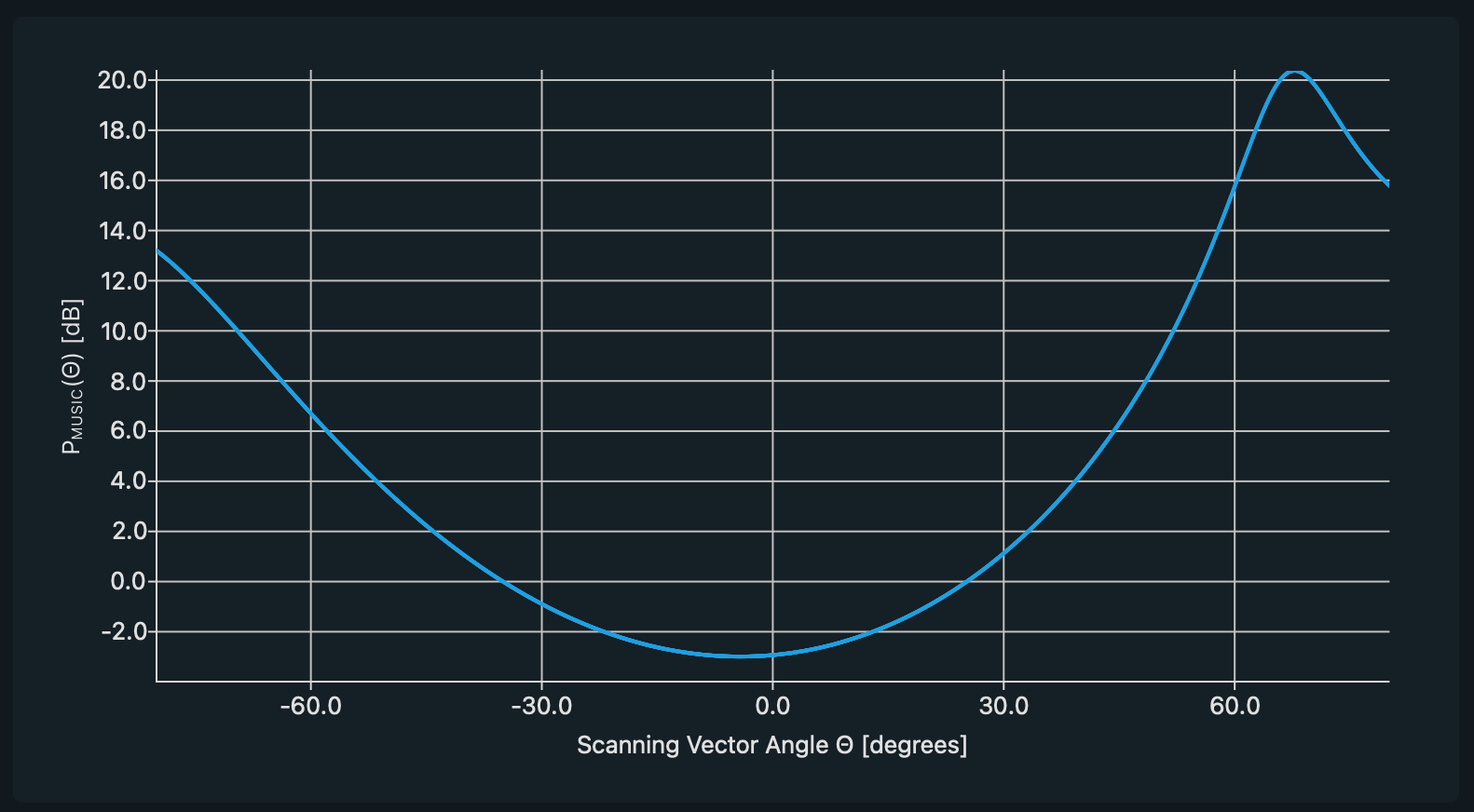
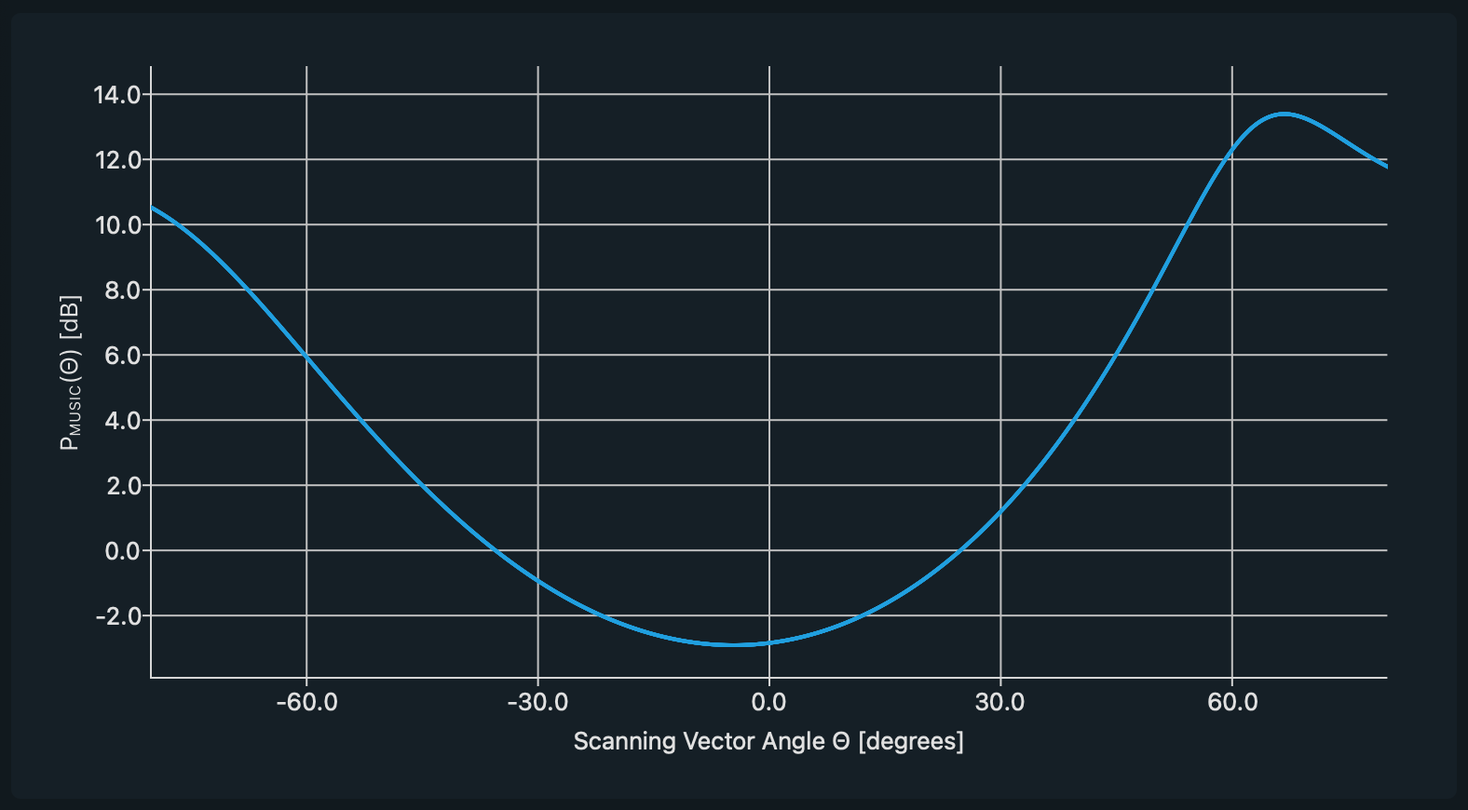
Added Measurement

Changed region(s): [[0.0311, 0.0931, 0.9638, 0.931]]

diff --git a/matlab/music_125MHz_M256_1m_60deg/cfr.m b/matlab/music_125MHz_M256_1m_60deg/cfr.m
@@ -1,116 +1,118 @@
 % Auto-generated MATLAB script
 clear;
-CH0_316 = [ ...
-0 + 1i*0, 2.42589 + 1i*2.37659, 2.42634 + 1i*2.37967, 2.42655 + 1i*2.38252, 2.42652 + 1i*2.38513,  ...
-2.42624 + 1i*2.38751, 2.42573 + 1i*2.38965, 2.42497 + 1i*2.39155, 2.42397 + 1i*2.39322, 2.42271 + 1i*2.39464,  ...
-2.42122 + 1i*2.39581, 2.41947 + 1i*2.39674, 2.41747 + 1i*2.39743, 2.41521 + 1i*2.39786, 2.41271 + 1i*2.39804,  ...
-2.40994 + 1i*2.39797, 2.40692 + 1i*2.39765, 2.40364 + 1i*2.39706, 2.4001 + 1i*2.39622, 2.39629 + 1i*2.39511,  ...
-2.39223 + 1i*2.39374, 2.38789 + 1i*2.39211, 2.38328 + 1i*2.3902, 2.37841 + 1i*2.38802, 2.37326 + 1i*2.38557,  ...
-2.36784 + 1i*2.38284, 2.36214 + 1i*2.37982, 2.35616 + 1i*2.37653, 2.3499 + 1i*2.37295, 2.34336 + 1i*2.36908,  ...
-2.33654 + 1i*2.36492, 2.32942 + 1i*2.36046, 2.32202 + 1i*2.3557, 0 + 1i*0, 0 + 1i*0,  ...
-0 + 1i*0, 0 + 1i*0, 0 + 1i*0, 0 + 1i*0, 0 + 1i*0,  ...
-0 + 1i*0, 0 + 1i*0, 0 + 1i*0, 0 + 1i*0, 0 + 1i*0,  ...
-0 + 1i*0, 0 + 1i*0, 0 + 1i*0, 0 + 1i*0, 0 + 1i*0,  ...
-0 + 1i*0, 0 + 1i*0, 0 + 1i*0, 2.09519 + 1i*2.18048, 2.08077 + 1i*2.16821,  ...
-2.06599 + 1i*2.15554, 2.05086 + 1i*2.14248, 2.03537 + 1i*2.12902, 2.01952 + 1i*2.11515, 2.00331 + 1i*2.10087,  ...
-1.98673 + 1i*2.08617, 1.96978 + 1i*2.07105, 1.95246 + 1i*2.0555, 1.93476 + 1i*2.03952, 1.91668 + 1i*2.0231,  ...
-1.89822 + 1i*2.00624, 1.87937 + 1i*1.98893, 1.86013 + 1i*1.97116, 1.8405 + 1i*1.95293, 1.82047 + 1i*1.93423,  ...
-1.80004 + 1i*1.91506, 1.77921 + 1i*1.89542, 1.75796 + 1i*1.87528, 1.73631 + 1i*1.85466, 1.71425 + 1i*1.83354,  ...
-1.69176 + 1i*1.81192, 1.66885 + 1i*1.78978, 1.64552 + 1i*1.76714, 1.62176 + 1i*1.74396, 1.59756 + 1i*1.72026,  ...
-1.57293 + 1i*1.69603, 1.54786 + 1i*1.67125, 1.52234 + 1i*1.64592, 1.49637 + 1i*1.62004, 1.46995 + 1i*1.5936,  ...
-1.44308 + 1i*1.56658, 1.41574 + 1i*1.53899, 1.38794 + 1i*1.51082, 1.35967 + 1i*1.48205, 1.33092 + 1i*1.45269,  ...
-1.3017 + 1i*1.42272, 1.272 + 1i*1.39215, 1.24181 + 1i*1.36095, 1.21113 + 1i*1.32912, 1.17996 + 1i*1.29667,  ...
-1.14829 + 1i*1.26357, 1.11611 + 1i*1.22982, 1.08342 + 1i*1.19541, 1.05023 + 1i*1.16034, 1.01651 + 1i*1.1246,  ...
-0.982275 + 1i*1.08818, 0.947511 + 1i*1.05107, 0.912216 + 1i*1.01326, 0 + 1i*0, 0 + 1i*0,  ...
-0 + 1i*0, 0 + 1i*0, 0 + 1i*0, 0 + 1i*0, 0 + 1i*0,  ...
-0 + 1i*0, 0 + 1i*0, 0 + 1i*0, 0 + 1i*0, 0 + 1i*0,  ...
-0 + 1i*0, 0 + 1i*0, 0 + 1i*0, 0 + 1i*0, 0 + 1i*0,  ...
-0 + 1i*0, 0 + 1i*0, 0 + 1i*0, 0 + 1i*0, 0 + 1i*0,  ...
-0 + 1i*0, 0 + 1i*0, 0 + 1i*0, 0 + 1i*0, 0 + 1i*0,  ...
-0 + 1i*0, 0 + 1i*0, 0 + 1i*0, 0 + 1i*0, 0 + 1i*0,  ...
-0 + 1i*0, 0 + 1i*0, 0 + 1i*0, 0 + 1i*0, 0 + 1i*0,  ...
-0 + 1i*0, 0 + 1i*0, 0 + 1i*0, 0 + 1i*0, 0 + 1i*0,  ...
-0 + 1i*0, 0 + 1i*0, 0 + 1i*0, 0 + 1i*0, 0 + 1i*0,  ...
-0 + 1i*0, 0 + 1i*0, 0 + 1i*0, 0 + 1i*0, 1.02916 + 1i*0.831082,  ...
-1.05968 + 1i*0.858819, 1.08971 + 1i*0.88629, 1.11925 + 1i*0.913494, 1.14831 + 1i*0.94043, 1.1769 + 1i*0.967098,  ...
-1.20502 + 1i*0.993497, 1.23269 + 1i*1.01963, 1.2599 + 1i*1.04549, 1.28667 + 1i*1.07108, 1.31301 + 1i*1.09641,  ...
-1.33892 + 1i*1.12146, 1.3644 + 1i*1.14625, 1.38947 + 1i*1.17076, 1.41413 + 1i*1.19501, 1.43838 + 1i*1.21899,  ...
-1.46224 + 1i*1.2427, 1.4857 + 1i*1.26614, 1.50878 + 1i*1.28932, 1.53148 + 1i*1.31223, 1.5538 + 1i*1.33488,  ...
-1.57576 + 1i*1.35726, 1.59735 + 1i*1.37938, 1.61858 + 1i*1.40123, 1.63946 + 1i*1.42282, 1.65999 + 1i*1.44415,  ...
-1.68018 + 1i*1.46522, 1.70002 + 1i*1.48603, 1.71954 + 1i*1.50658, 1.73872 + 1i*1.52687, 1.75758 + 1i*1.54691,  ...
-1.77611 + 1i*1.56669, 1.79433 + 1i*1.58621, 1.81223 + 1i*1.60548, 1.82982 + 1i*1.6245, 1.84711 + 1i*1.64326,  ...
-1.8641 + 1i*1.66178, 1.88078 + 1i*1.68005, 1.89717 + 1i*1.69806, 1.91327 + 1i*1.71583, 1.92909 + 1i*1.73336,  ...
-1.94461 + 1i*1.75064, 1.95985 + 1i*1.76767, 1.97482 + 1i*1.78446, 1.98951 + 1i*1.80101, 2.00392 + 1i*1.81732,  ...
-2.01807 + 1i*1.83339, 2.03194 + 1i*1.84922, 2.04555 + 1i*1.86482, 2.0589 + 1i*1.88018, 2.07198 + 1i*1.8953,  ...
-2.08481 + 1i*1.91019, 2.09738 + 1i*1.92484, 2.10969 + 1i*1.93926, 2.12176 + 1i*1.95345, 2.13357 + 1i*1.96741,  ...
-2.14513 + 1i*1.98115, 2.15645 + 1i*1.99465, 2.16752 + 1i*2.00792, 2.17835 + 1i*2.02097, 2.18894 + 1i*2.03379,  ...
-2.19929 + 1i*2.04639, 2.20939 + 1i*2.05876, 2.21926 + 1i*2.0709, 2.2289 + 1i*2.08283, 2.23829 + 1i*2.09453,  ...
-2.24746 + 1i*2.10601, 2.25638 + 1i*2.11726, 2.26508 + 1i*2.1283, 2.27355 + 1i*2.13912, 2.28178 + 1i*2.14972,  ...
-2.28979 + 1i*2.16009, 2.29757 + 1i*2.17025, 2.30511 + 1i*2.18019, 2.31243 + 1i*2.18991, 2.31953 + 1i*2.19941,  ...
-2.32639 + 1i*2.2087, 2.33303 + 1i*2.21777, 2.33944 + 1i*2.22662, 2.34563 + 1i*2.23525, 2.35159 + 1i*2.24367,  ...
-2.35732 + 1i*2.25186, 2.36283 + 1i*2.25984, 2.36811 + 1i*2.26761, 2.37317 + 1i*2.27515, 2.378 + 1i*2.28248,  ...
-2.38261 + 1i*2.28959, 2.38699 + 1i*2.29648, 2.39114 + 1i*2.30315, 2.39506 + 1i*2.3096, 2.39876 + 1i*2.31584,  ...
-2.40223 + 1i*2.32185, 2.40547 + 1i*2.32764, 2.40849 + 1i*2.33321, 2.41127 + 1i*2.33856, 2.41383 + 1i*2.34369,  ...
-2.41615 + 1i*2.34859, 2.41824 + 1i*2.35327, 2.4201 + 1i*2.35773, 2.42173 + 1i*2.36196, 2.42312 + 1i*2.36596,  ...
-2.42428 + 1i*2.36973];
-CH1_316 = [ ...
-0 + 1i*0, -1.74184 + 1i*-2.45384, -1.76989 + 1i*-2.43564, -1.7976 + 1i*-2.41689, -1.82494 + 1i*-2.39759,  ...
--1.85192 + 1i*-2.37775, -1.8785 + 1i*-2.35737, -1.90469 + 1i*-2.33646, -1.93047 + 1i*-2.31503, -1.95582 + 1i*-2.29308,  ...
--1.98074 + 1i*-2.27063, -2.00522 + 1i*-2.24768, -2.02924 + 1i*-2.22423, -2.05278 + 1i*-2.20031, -2.07584 + 1i*-2.1759,  ...
--2.09841 + 1i*-2.15103, -2.12048 + 1i*-2.1257, -2.14202 + 1i*-2.09992, -2.16304 + 1i*-2.0737, -2.18351 + 1i*-2.04704,  ...
--2.20343 + 1i*-2.01997, -2.22279 + 1i*-1.99248, -2.24157 + 1i*-1.9646, -2.25977 + 1i*-1.93632, -2.27737 + 1i*-1.90766,  ...
--2.29436 + 1i*-1.87863, -2.31073 + 1i*-1.84924, -2.32647 + 1i*-1.8195, -2.34157 + 1i*-1.78942, -2.35601 + 1i*-1.75902,  ...
--2.3698 + 1i*-1.72831, -2.38291 + 1i*-1.6973, -2.39534 + 1i*-1.66599, 0 + 1i*0, 0 + 1i*0,  ...
-0 + 1i*0, 0 + 1i*0, 0 + 1i*0, 0 + 1i*0, 0 + 1i*0,  ...
-0 + 1i*0, 0 + 1i*0, 0 + 1i*0, 0 + 1i*0, 0 + 1i*0,  ...
-0 + 1i*0, 0 + 1i*0, 0 + 1i*0, 0 + 1i*0, 0 + 1i*0,  ...
-0 + 1i*0, 0 + 1i*0, 0 + 1i*0, -2.4817 + 1i*-0.966707, -2.47679 + 1i*-0.932718,  ...
--2.47099 + 1i*-0.898795, -2.46432 + 1i*-0.86496, -2.45675 + 1i*-0.831231, -2.4483 + 1i*-0.797625, -2.43894 + 1i*-0.764165,  ...
--2.42868 + 1i*-0.730867, -2.41751 + 1i*-0.697755, -2.40542 + 1i*-0.664845, -2.39242 + 1i*-0.63216, -2.3785 + 1i*-0.599721,  ...
--2.36366 + 1i*-0.567548, -2.34789 + 1i*-0.535662, -2.33118 + 1i*-0.504086, -2.31355 + 1i*-0.472841, -2.29498 + 1i*-0.441948,  ...
--2.27547 + 1i*-0.41143, -2.25503 + 1i*-0.381311, -2.23364 + 1i*-0.351611, -2.21132 + 1i*-0.322354, -2.18806 + 1i*-0.293566,  ...
--2.16385 + 1i*-0.265266, -2.13871 + 1i*-0.23748, -2.11263 + 1i*-0.210232, -2.08561 + 1i*-0.183546, -2.05766 + 1i*-0.157446,  ...
--2.02878 + 1i*-0.131958, -1.99896 + 1i*-0.107104, -1.96822 + 1i*-0.0829121, -1.93655 + 1i*-0.0594059, -1.90396 + 1i*-0.0366119,  ...
--1.87046 + 1i*-0.0145542, -1.83605 + 1i*0.00673933, -1.80073 + 1i*0.0272448, -1.76452 + 1i*0.0469345, -1.72741 + 1i*0.0657819,  ...
--1.68941 + 1i*0.083762, -1.65054 + 1i*0.100847, -1.6108 + 1i*0.11701, -1.5702 + 1i*0.132223, -1.52875 + 1i*0.146461,  ...
--1.48645 + 1i*0.159695, -1.44332 + 1i*0.171898, -1.39937 + 1i*0.183042, -1.35461 + 1i*0.1931, -1.30906 + 1i*0.202044,  ...
--1.26272 + 1i*0.209846, -1.21561 + 1i*0.216477, -1.16774 + 1i*0.221911, 0 + 1i*0, 0 + 1i*0,  ...
-0 + 1i*0, 0 + 1i*0, 0 + 1i*0, 0 + 1i*0, 0 + 1i*0,  ...
-0 + 1i*0, 0 + 1i*0, 0 + 1i*0, 0 + 1i*0, 0 + 1i*0,  ...
-0 + 1i*0, 0 + 1i*0, 0 + 1i*0, 0 + 1i*0, 0 + 1i*0,  ...
-0 + 1i*0, 0 + 1i*0, 0 + 1i*0, 0 + 1i*0, 0 + 1i*0,  ...
-0 + 1i*0, 0 + 1i*0, 0 + 1i*0, 0 + 1i*0, 0 + 1i*0,  ...
-0 + 1i*0, 0 + 1i*0, 0 + 1i*0, 0 + 1i*0, 0 + 1i*0,  ...
-0 + 1i*0, 0 + 1i*0, 0 + 1i*0, 0 + 1i*0, 0 + 1i*0,  ...
-0 + 1i*0, 0 + 1i*0, 0 + 1i*0, 0 + 1i*0, 0 + 1i*0,  ...
-0 + 1i*0, 0 + 1i*0, 0 + 1i*0, 0 + 1i*0, 0 + 1i*0,  ...
-0 + 1i*0, 0 + 1i*0, 0 + 1i*0, 0 + 1i*0, 0.583817 + 1i*-1.09689,  ...
-0.58948 + 1i*-1.13528, 0.594162 + 1i*-1.17342, 0.597876 + 1i*-1.21133, 0.600634 + 1i*-1.24897, 0.602447 + 1i*-1.28635,  ...
-0.603327 + 1i*-1.32344, 0.603286 + 1i*-1.36024, 0.602335 + 1i*-1.39673, 0.600488 + 1i*-1.43291, 0.597755 + 1i*-1.46876,  ...
-0.594148 + 1i*-1.50427, 0.589681 + 1i*-1.53943, 0.584365 + 1i*-1.57424, 0.578213 + 1i*-1.60867, 0.571237 + 1i*-1.64272,  ...
-0.563449 + 1i*-1.67639, 0.554863 + 1i*-1.70965, 0.54549 + 1i*-1.74251, 0.535343 + 1i*-1.77494, 0.524435 + 1i*-1.80695,  ...
-0.512778 + 1i*-1.83852, 0.500385 + 1i*-1.86965, 0.487269 + 1i*-1.90032, 0.473443 + 1i*-1.93053, 0.45892 + 1i*-1.96027,  ...
-0.443712 + 1i*-1.98953, 0.427832 + 1i*-2.0183, 0.411294 + 1i*-2.04658, 0.39411 + 1i*-2.07436, 0.376293 + 1i*-2.10163,  ...
-0.357857 + 1i*-2.12838, 0.338814 + 1i*-2.15461, 0.319178 + 1i*-2.18031, 0.298961 + 1i*-2.20548, 0.278177 + 1i*-2.2301,  ...
-0.256839 + 1i*-2.25417, 0.23496 + 1i*-2.27769, 0.212553 + 1i*-2.30065, 0.189632 + 1i*-2.32304, 0.166209 + 1i*-2.34486,  ...
-0.142298 + 1i*-2.3661, 0.117913 + 1i*-2.38676, 0.093065 + 1i*-2.40683, 0.0677692 + 1i*-2.42632, 0.0420382 + 1i*-2.4452,  ...
-0.0158853 + 1i*-2.46349, -0.0106763 + 1i*-2.48117, -0.0376331 + 1i*-2.49824, -0.0649722 + 1i*-2.51469, -0.0926794 + 1i*-2.53054,  ...
--0.120743 + 1i*-2.54576, -0.149148 + 1i*-2.56036, -0.177882 + 1i*-2.57433, -0.206931 + 1i*-2.58767, -0.236283 + 1i*-2.60038,  ...
--0.265924 + 1i*-2.61246, -0.295841 + 1i*-2.6239, -0.32602 + 1i*-2.63469, -0.356448 + 1i*-2.64485, -0.387112 + 1i*-2.65436,  ...
--0.417999 + 1i*-2.66323, -0.449094 + 1i*-2.67145, -0.480386 + 1i*-2.67902, -0.511861 + 1i*-2.68594, -0.543505 + 1i*-2.69221,  ...
--0.575306 + 1i*-2.69783, -0.607249 + 1i*-2.70279, -0.639322 + 1i*-2.7071, -0.671513 + 1i*-2.71076, -0.703806 + 1i*-2.71376,  ...
--0.73619 + 1i*-2.71611, -0.768651 + 1i*-2.7178, -0.801175 + 1i*-2.71884, -0.83375 + 1i*-2.71923, -0.866363 + 1i*-2.71896,  ...
--0.899 + 1i*-2.71804, -0.931648 + 1i*-2.71646, -0.964296 + 1i*-2.71424, -0.996927 + 1i*-2.71137, -1.02953 + 1i*-2.70785,  ...
--1.06209 + 1i*-2.70368, -1.0946 + 1i*-2.69887, -1.12704 + 1i*-2.69341, -1.1594 + 1i*-2.68732, -1.19167 + 1i*-2.68058,  ...
--1.22383 + 1i*-2.67321, -1.25587 + 1i*-2.66521, -1.28778 + 1i*-2.65657, -1.31955 + 1i*-2.64731, -1.35116 + 1i*-2.63743,  ...
--1.38259 + 1i*-2.62692, -1.41384 + 1i*-2.61579, -1.4449 + 1i*-2.60405, -1.47575 + 1i*-2.5917, -1.50637 + 1i*-2.57875,  ...
--1.53676 + 1i*-2.56519, -1.5669 + 1i*-2.55104, -1.59678 + 1i*-2.53629, -1.62639 + 1i*-2.52095, -1.65571 + 1i*-2.50504,  ...
--1.68474 + 1i*-2.48854];
-figure;subplot(2,1,1); hold on;plot(abs(CH0_316), 'DisplayName', 'CH0_316');title('Channel Frequency Response Gain'); legend; grid on;
-subplot(2,1,2); hold on;plot(angle(CH0_316), 'DisplayName', 'CH0_316');title('Channel Frequency Response Phase'); legend; grid on;
-figure;plot(real(CH0_316), imag(CH0_316), '.', 'DisplayName', 'CH0_316'); hold on;title('CFR'); xlabel('Real'); ylabel('Imag'); axis equal; legend; grid on;
 
-figure;subplot(2,1,1); hold on;plot(abs(CH1_316), 'DisplayName', 'CH1_316');title('Channel Frequency Response Gain'); legend; grid on;
-subplot(2,1,2); hold on;plot(angle(CH1_316), 'DisplayName', 'CH1_316');title('Channel Frequency Response Phase'); legend; grid on;
-figure;plot(real(CH1_316), imag(CH1_316), '.', 'DisplayName', 'CH1_316'); hold on;title('CFR'); xlabel('Real'); ylabel('Imag'); axis equal; legend; grid on;
+CH0_78137 = [ ...
+0 + 1i*0, 0 + 1i*0, 0 + 1i*0, 0 + 1i*0, 0 + 1i*0,  ...
+0 + 1i*0, 0 + 1i*0, 0 + 1i*0, 0 + 1i*0, 0 + 1i*0,  ...
+0 + 1i*0, 0 + 1i*0, 0 + 1i*0, 0 + 1i*0, 0 + 1i*0,  ...
+0 + 1i*0, 0 + 1i*0, 0 + 1i*0, 0 + 1i*0, 0 + 1i*0,  ...
+0 + 1i*0, 0 + 1i*0, 0 + 1i*0, 0 + 1i*0, 0 + 1i*0,  ...
+0 + 1i*0, 0.223239 + 1i*-1.16242, 0.233233 + 1i*-1.19073, 0.243112 + 1i*-1.21862, 0.252861 + 1i*-1.24611,  ...
+0.262466 + 1i*-1.27321, 0.271914 + 1i*-1.29992, 0.281193 + 1i*-1.32626, 0.290293 + 1i*-1.35224, 0.299202 + 1i*-1.37786,  ...
+0.307912 + 1i*-1.40315, 0.316414 + 1i*-1.4281, 0.324699 + 1i*-1.45272, 0.332761 + 1i*-1.47703, 0.340593 + 1i*-1.50104,  ...
+0.348189 + 1i*-1.52474, 0.355543 + 1i*-1.54815, 0.362651 + 1i*-1.57128, 0.369509 + 1i*-1.59414, 0.376113 + 1i*-1.61672,  ...
+0.38246 + 1i*-1.63904, 0.388547 + 1i*-1.6611, 0.394372 + 1i*-1.68291, 0.399933 + 1i*-1.70448, 0.405229 + 1i*-1.7258,  ...
+0.410259 + 1i*-1.7469, 0.415023 + 1i*-1.76776, 0.41952 + 1i*-1.78839, 0.423751 + 1i*-1.8088, 0.427715 + 1i*-1.829,  ...
+0.431415 + 1i*-1.84898, 0.43485 + 1i*-1.86875, 0.438023 + 1i*-1.88832, 0.440936 + 1i*-1.90768, 0.443589 + 1i*-1.92684,  ...
+0.445986 + 1i*-1.9458, 0.448129 + 1i*-1.96456, 0.45002 + 1i*-1.98314, 0.451663 + 1i*-2.00152, 0.45306 + 1i*-2.01971,  ...
+0.454215 + 1i*-2.03771, 0.455131 + 1i*-2.05553, 0.455813 + 1i*-2.07316, 0.456263 + 1i*-2.09061, 0.456486 + 1i*-2.10788,  ...
+0.456486 + 1i*-2.12497, 0.456267 + 1i*-2.14187, 0.455834 + 1i*-2.1586, 0.45519 + 1i*-2.17515, 0.454341 + 1i*-2.19151,  ...
+0.453291 + 1i*-2.2077, 0.452046 + 1i*-2.22371, 0.450609 + 1i*-2.23955, 0.448987 + 1i*-2.2552, 0.447183 + 1i*-2.27068,  ...
+0.445204 + 1i*-2.28598, 0.443054 + 1i*-2.3011, 0.440739 + 1i*-2.31605, 0.438264 + 1i*-2.33081, 0.435634 + 1i*-2.3454,  ...
+0.432855 + 1i*-2.3598, 0.429932 + 1i*-2.37403, 0.42687 + 1i*-2.38807, 0.423676 + 1i*-2.40193, 0.420355 + 1i*-2.41561,  ...
+0.41691 + 1i*-2.4291, 0.41335 + 1i*-2.44242, 0.409679 + 1i*-2.45554, 0.405903 + 1i*-2.46848, 0.402027 + 1i*-2.48123,  ...
+0.398057 + 1i*-2.49379, 0.393998 + 1i*-2.50617, 0.389855 + 1i*-2.51835, 0.385635 + 1i*-2.53034, 0.381342 + 1i*-2.54213,  ...
+0.376983 + 1i*-2.55373, 0.372562 + 1i*-2.56514, 0.368084 + 1i*-2.57634, 0.363556 + 1i*-2.58735, 0.358982 + 1i*-2.59815,  ...
+0.354367 + 1i*-2.60875, 0.349716 + 1i*-2.61915, 0.345036 + 1i*-2.62934, 0.340331 + 1i*-2.63932, 0.335604 + 1i*-2.64909,  ...
+0.330863 + 1i*-2.65865, 0.32611 + 1i*-2.66799, 0.321352 + 1i*-2.67712, 0.316592 + 1i*-2.68602, 0.311836 + 1i*-2.69471,  ...
+0.307088 + 1i*-2.70318, 0.302351 + 1i*-2.71142, 0.297631 + 1i*-2.71943, 0.292931 + 1i*-2.72721, 0.288257 + 1i*-2.73476,  ...
+0.283611 + 1i*-2.74207, 0.278998 + 1i*-2.74915, 0.274422 + 1i*-2.75598, 0.269886 + 1i*-2.76257, 0.265393 + 1i*-2.76892,  ...
+0.260947 + 1i*-2.77501, 0.256552 + 1i*-2.78086, 0.25221 + 1i*-2.78644, 0 + 1i*0, 0.243701 + 1i*-2.79684,  ...
+0.239538 + 1i*-2.80164, 0.235441 + 1i*-2.80617, 0.231412 + 1i*-2.81043, 0.227452 + 1i*-2.81442, 0.223565 + 1i*-2.81812,  ...
+0.219753 + 1i*-2.82154, 0.216017 + 1i*-2.82468, 0.21236 + 1i*-2.82752, 0.208782 + 1i*-2.83007, 0.205286 + 1i*-2.83231,  ...
+0.201873 + 1i*-2.83426, 0.198544 + 1i*-2.83589, 0.195301 + 1i*-2.83721, 0.192143 + 1i*-2.83822, 0.189073 + 1i*-2.8389,  ...
+0.18609 + 1i*-2.83925, 0.183194 + 1i*-2.83928, 0.180387 + 1i*-2.83896, 0.177668 + 1i*-2.83831, 0.175037 + 1i*-2.83731,  ...
+0.172493 + 1i*-2.83595, 0.170038 + 1i*-2.83424, 0.167669 + 1i*-2.83216, 0.165386 + 1i*-2.82972, 0.163189 + 1i*-2.82689,  ...
+0.161075 + 1i*-2.82369, 0.159045 + 1i*-2.82011, 0.157095 + 1i*-2.81613, 0.155226 + 1i*-2.81175, 0.153434 + 1i*-2.80696,  ...
+0.151719 + 1i*-2.80177, 0.150078 + 1i*-2.79616, 0.148508 + 1i*-2.79012, 0.147009 + 1i*-2.78365, 0.145576 + 1i*-2.77674,  ...
+0.144207 + 1i*-2.76939, 0.1429 + 1i*-2.76158, 0.14165 + 1i*-2.75332, 0.140456 + 1i*-2.74459, 0.139314 + 1i*-2.73539,  ...
+0.138219 + 1i*-2.7257, 0.137171 + 1i*-2.71553, 0.136163 + 1i*-2.70486, 0.135192 + 1i*-2.69369, 0.134254 + 1i*-2.682,  ...
+0.133347 + 1i*-2.6698, 0.132464 + 1i*-2.65706, 0.131602 + 1i*-2.6438, 0.130757 + 1i*-2.62998, 0.129924 + 1i*-2.61562,  ...
+0.129099 + 1i*-2.60069, 0.128277 + 1i*-2.58519, 0.127453 + 1i*-2.56911, 0.126624 + 1i*-2.55245, 0.125784 + 1i*-2.53519,  ...
+0.124928 + 1i*-2.51733, 0.124052 + 1i*-2.49885, 0.123152 + 1i*-2.47975, 0.122221 + 1i*-2.46001, 0.121257 + 1i*-2.43964,  ...
+0.120254 + 1i*-2.41861, 0.119207 + 1i*-2.39692, 0.118112 + 1i*-2.37456, 0.116966 + 1i*-2.35152, 0.115762 + 1i*-2.32779,  ...
+0.114498 + 1i*-2.30336, 0.113169 + 1i*-2.27822, 0.111772 + 1i*-2.25236, 0.110302 + 1i*-2.22577, 0.108756 + 1i*-2.19843,  ...
+0.107131 + 1i*-2.17034, 0.105424 + 1i*-2.14149, 0.103632 + 1i*-2.11187, 0.101753 + 1i*-2.08146, 0.0997846 + 1i*-2.05025,  ...
+0.0977248 + 1i*-2.01824, 0.0955726 + 1i*-1.98541, 0.0933269 + 1i*-1.95175, 0.0909871 + 1i*-1.91725, 0.0885531 + 1i*-1.88189,  ...
+0.0860256 + 1i*-1.84567, 0.0834051 + 1i*-1.80858, 0.080693 + 1i*-1.77059, 0.077892 + 1i*-1.7317, 0.0750046 + 1i*-1.6919,  ...
+0.0720337 + 1i*-1.65117, 0.0689839 + 1i*-1.6095, 0.0658601 + 1i*-1.56689, 0.0626682 + 1i*-1.5233, 0.0594138 + 1i*-1.47874,  ...
+0.0561049 + 1i*-1.43318, 0.0527495 + 1i*-1.38662, 0.0493575 + 1i*-1.33905, 0.0459384 + 1i*-1.29044, 0.0425042 + 1i*-1.24078,  ...
+0.0390669 + 1i*-1.19007, 0.0356403 + 1i*-1.13828, 0.0322392 + 1i*-1.0854, 0.02888 + 1i*-1.03142, 0.02558 + 1i*-0.976329,  ...
+0.0223579 + 1i*-0.920105, 0 + 1i*0, 0 + 1i*0, 0 + 1i*0, 0 + 1i*0,  ...
+0 + 1i*0, 0 + 1i*0, 0 + 1i*0, 0 + 1i*0, 0 + 1i*0,  ...
+0 + 1i*0, 0 + 1i*0, 0 + 1i*0, 0 + 1i*0, 0 + 1i*0,  ...
+0 + 1i*0, 0 + 1i*0, 0 + 1i*0, 0 + 1i*0, 0 + 1i*0,  ...
+0 + 1i*0, 0 + 1i*0, 0 + 1i*0, 0 + 1i*0, 0 + 1i*0,  ...
+0 + 1i*0];
+CH1_78137 = [ ...
+0 + 1i*0, 0 + 1i*0, 0 + 1i*0, 0 + 1i*0, 0 + 1i*0,  ...
+0 + 1i*0, 0 + 1i*0, 0 + 1i*0, 0 + 1i*0, 0 + 1i*0,  ...
+0 + 1i*0, 0 + 1i*0, 0 + 1i*0, 0 + 1i*0, 0 + 1i*0,  ...
+0 + 1i*0, 0 + 1i*0, 0 + 1i*0, 0 + 1i*0, 0 + 1i*0,  ...
+0 + 1i*0, 0 + 1i*0, 0 + 1i*0, 0 + 1i*0, 0 + 1i*0,  ...
+0 + 1i*0, -0.396698 + 1i*1.49705, -0.417187 + 1i*1.53153, -0.437664 + 1i*1.56538, -0.458103 + 1i*1.59861,  ...
+-0.478478 + 1i*1.63124, -0.498767 + 1i*1.66329, -0.51895 + 1i*1.69478, -0.539004 + 1i*1.72572, -0.558912 + 1i*1.75614,  ...
+-0.578656 + 1i*1.78604, -0.59822 + 1i*1.81545, -0.617588 + 1i*1.84438, -0.636748 + 1i*1.87284, -0.655686 + 1i*1.90086,  ...
+-0.67439 + 1i*1.92844, -0.69285 + 1i*1.9556, -0.711055 + 1i*1.98235, -0.728997 + 1i*2.00871, -0.746669 + 1i*2.03469,  ...
+-0.764062 + 1i*2.0603, -0.781169 + 1i*2.08556, -0.797986 + 1i*2.11047, -0.814506 + 1i*2.13504, -0.830727 + 1i*2.15929,  ...
+-0.846645 + 1i*2.18322, -0.862255 + 1i*2.20685, -0.877555 + 1i*2.23019, -0.892544 + 1i*2.25323, -0.907219 + 1i*2.276,  ...
+-0.921582 + 1i*2.29849, -0.935629 + 1i*2.32072, -0.949361 + 1i*2.3427, -0.962779 + 1i*2.36442, -0.975883 + 1i*2.38589,  ...
+-0.988674 + 1i*2.40713, -1.00115 + 1i*2.42813, -1.01333 + 1i*2.44891, -1.02519 + 1i*2.46945, -1.03675 + 1i*2.48978,  ...
+-1.04801 + 1i*2.50989, -1.05896 + 1i*2.52979, -1.06963 + 1i*2.54948, -1.07999 + 1i*2.56896, -1.09007 + 1i*2.58824,  ...
+-1.09987 + 1i*2.60732, -1.10938 + 1i*2.6262, -1.11862 + 1i*2.64488, -1.12758 + 1i*2.66336, -1.13628 + 1i*2.68165,  ...
+-1.14471 + 1i*2.69974, -1.15288 + 1i*2.71764, -1.1608 + 1i*2.73535, -1.16848 + 1i*2.75287, -1.1759 + 1i*2.77019,  ...
+-1.18309 + 1i*2.78732, -1.19005 + 1i*2.80427, -1.19678 + 1i*2.82101, -1.20329 + 1i*2.83757, -1.20958 + 1i*2.85393,  ...
+-1.21566 + 1i*2.8701, -1.22154 + 1i*2.88607, -1.22721 + 1i*2.90184, -1.23269 + 1i*2.91742, -1.23799 + 1i*2.93279,  ...
+-1.2431 + 1i*2.94797, -1.24803 + 1i*2.96294, -1.25279 + 1i*2.9777, -1.25739 + 1i*2.99226, -1.26183 + 1i*3.00661,  ...
+-1.26611 + 1i*3.02075, -1.27024 + 1i*3.03467, -1.27423 + 1i*3.04837, -1.27808 + 1i*3.06186, -1.2818 + 1i*3.07512,  ...
+-1.2854 + 1i*3.08816, -1.28887 + 1i*3.10097, -1.29222 + 1i*3.11355, -1.29547 + 1i*3.1259, -1.2986 + 1i*3.138,  ...
+-1.30164 + 1i*3.14987, -1.30458 + 1i*3.16149, -1.30743 + 1i*3.17287, -1.31019 + 1i*3.18399, -1.31287 + 1i*3.19486,  ...
+-1.31548 + 1i*3.20547, -1.31801 + 1i*3.21582, -1.32047 + 1i*3.22591, -1.32286 + 1i*3.23572, -1.3252 + 1i*3.24526,  ...
+-1.32747 + 1i*3.25452, -1.3297 + 1i*3.2635, -1.33187 + 1i*3.27219, -1.334 + 1i*3.28059, -1.33608 + 1i*3.2887,  ...
+-1.33812 + 1i*3.29651, -1.34013 + 1i*3.30401, -1.3421 + 1i*3.31121, -1.34403 + 1i*3.31809, -1.34594 + 1i*3.32466,  ...
+-1.34782 + 1i*3.3309, -1.34967 + 1i*3.33681, -1.35149 + 1i*3.3424, 0 + 1i*0, -1.35508 + 1i*3.35255,  ...
+-1.35684 + 1i*3.3571, -1.35858 + 1i*3.36131, -1.3603 + 1i*3.36516, -1.362 + 1i*3.36864, -1.36368 + 1i*3.37176,  ...
+-1.36534 + 1i*3.37451, -1.36698 + 1i*3.37687, -1.3686 + 1i*3.37886, -1.37021 + 1i*3.38045, -1.37178 + 1i*3.38165,  ...
+-1.37334 + 1i*3.38245, -1.37486 + 1i*3.38284, -1.37636 + 1i*3.38283, -1.37784 + 1i*3.38239, -1.37928 + 1i*3.38153,  ...
+-1.38068 + 1i*3.38025, -1.38205 + 1i*3.37853, -1.38337 + 1i*3.37637, -1.38465 + 1i*3.37376, -1.38589 + 1i*3.3707,  ...
+-1.38707 + 1i*3.36719, -1.38819 + 1i*3.3632, -1.38925 + 1i*3.35875, -1.39025 + 1i*3.35383, -1.39117 + 1i*3.34842,  ...
+-1.39202 + 1i*3.34252, -1.39278 + 1i*3.33613, -1.39345 + 1i*3.32924, -1.39403 + 1i*3.32185, -1.39451 + 1i*3.31394,  ...
+-1.39487 + 1i*3.30551, -1.39512 + 1i*3.29655, -1.39525 + 1i*3.28707, -1.39525 + 1i*3.27704, -1.3951 + 1i*3.26648,  ...
+-1.39481 + 1i*3.25536, -1.39436 + 1i*3.24369, -1.39374 + 1i*3.23145, -1.39295 + 1i*3.21865, -1.39198 + 1i*3.20527,  ...
+-1.39081 + 1i*3.19131, -1.38944 + 1i*3.17676, -1.38785 + 1i*3.16162, -1.38604 + 1i*3.14587, -1.38399 + 1i*3.12953,  ...
+-1.3817 + 1i*3.11256, -1.37916 + 1i*3.09498, -1.37634 + 1i*3.07677, -1.37324 + 1i*3.05793, -1.36986 + 1i*3.03845,  ...
+-1.36617 + 1i*3.01833, -1.36216 + 1i*2.99756, -1.35783 + 1i*2.97612, -1.35316 + 1i*2.95403, -1.34814 + 1i*2.93126,  ...
+-1.34275 + 1i*2.90782, -1.33698 + 1i*2.88369, -1.33083 + 1i*2.85887, -1.32427 + 1i*2.83335, -1.3173 + 1i*2.80713,  ...
+-1.30989 + 1i*2.7802, -1.30205 + 1i*2.75255, -1.29375 + 1i*2.72418, -1.28498 + 1i*2.69508, -1.27573 + 1i*2.66523,  ...
+-1.26599 + 1i*2.63464, -1.25573 + 1i*2.6033, -1.24496 + 1i*2.5712, -1.23366 + 1i*2.53833, -1.22181 + 1i*2.50468,  ...
+-1.2094 + 1i*2.47024, -1.19642 + 1i*2.43502, -1.18286 + 1i*2.39899, -1.1687 + 1i*2.36216, -1.15394 + 1i*2.32451,  ...
+-1.13856 + 1i*2.28603, -1.12254 + 1i*2.24671, -1.10589 + 1i*2.20654, -1.08859 + 1i*2.16552, -1.07062 + 1i*2.12364,  ...
+-1.05198 + 1i*2.08088, -1.03267 + 1i*2.03723, -1.01266 + 1i*1.99268, -0.991957 + 1i*1.94721, -0.970547 + 1i*1.90083,  ...
+-0.948425 + 1i*1.85351, -0.925583 + 1i*1.80524, -0.902015 + 1i*1.75601, -0.877717 + 1i*1.7058, -0.852685 + 1i*1.6546,  ...
+-0.826913 + 1i*1.60239, -0.800401 + 1i*1.54916, -0.773145 + 1i*1.49489, -0.745145 + 1i*1.43956, -0.716401 + 1i*1.38315,  ...
+-0.686914 + 1i*1.32565, -0.656687 + 1i*1.26704, -0.625722 + 1i*1.20729, -0.594025 + 1i*1.14639, -0.561601 + 1i*1.08431,  ...
+-0.528458 + 1i*1.02103, 0 + 1i*0, 0 + 1i*0, 0 + 1i*0, 0 + 1i*0,  ...
+0 + 1i*0, 0 + 1i*0, 0 + 1i*0, 0 + 1i*0, 0 + 1i*0,  ...
+0 + 1i*0, 0 + 1i*0, 0 + 1i*0, 0 + 1i*0, 0 + 1i*0,  ...
+0 + 1i*0, 0 + 1i*0, 0 + 1i*0, 0 + 1i*0, 0 + 1i*0,  ...
+0 + 1i*0, 0 + 1i*0, 0 + 1i*0, 0 + 1i*0, 0 + 1i*0,  ...
+0 + 1i*0];
+
+figure;subplot(2,1,1); hold on;plot(abs(CH0_78137), 'DisplayName', 'CH0_78137');title('Channel Frequency Response Gain'); legend; grid on;
+subplot(2,1,2); hold on;plot(angle(CH0_78137), 'DisplayName', 'CH0_78137');title('Channel Frequency Response Phase'); legend; grid on;
+figure;plot(real(CH0_78137), imag(CH0_78137), '.', 'DisplayName', 'CH0_78137'); hold on;title('CFR'); xlabel('Real'); ylabel('Imag'); axis equal; legend; grid on;
+
+figure;subplot(2,1,1); hold on;plot(abs(CH1_78137), 'DisplayName', 'CH1_78137');title('Channel Frequency Response Gain'); legend; grid on;
+subplot(2,1,2); hold on;plot(angle(CH1_78137), 'DisplayName', 'CH1_78137');title('Channel Frequency Response Phase'); legend; grid on;
+figure;plot(real(CH1_78137), imag(CH1_78137), '.', 'DisplayName', 'CH1_78137'); hold on;title('CFR'); xlabel('Real'); ylabel('Imag'); axis equal; legend; grid on;
 

diff --git a/matlab/music_125MHz_M256_1m_60deg/cbdata.m b/matlab/music_125MHz_M256_1m_60deg/cbdata.m
@@ -1,74 +1,82 @@
 % Auto-generated MATLAB script
 clear;
-CH1_316 = [ ...
--0.97806 + 1i*0.0335829, -1.23394 + 1i*-0.0042835, -1.53789 + 1i*0.0412715, 1.91436 + 1i*-0.0422082, 0.819988 + 1i*0.000945184,  ...
-1.70828 + 1i*0.0234582, 1.69711 + 1i*-0.0440615, 0.214718 + 1i*0.0271479, -1.13326 + 1i*0.0379223, -0.498352 + 1i*-0.00695369,  ...
-0.576745 + 1i*-0.0341234, -1.01656 + 1i*-0.00284488, 1.61767 + 1i*-0.01155, 1.05993 + 1i*0.0100432, -1.58087 + 1i*0.00782933,  ...
--0.8523 + 1i*0.00187159, -0.900492 + 1i*-0.0299116, -0.911466 + 1i*0.038244, 1.2879 + 1i*-0.0392793, 0.615067 + 1i*-0.00946646,  ...
--0.766218 + 1i*-0.00594937, -0.617369 + 1i*0.0291355, -1.52375 + 1i*0.0320072, -0.547358 + 1i*-0.0160963, 1.12954 + 1i*0.00427102,  ...
--1.08225 + 1i*0.0508645, -0.770665 + 1i*0.0279732, 1.248 + 1i*-0.0446301, 0.473214 + 1i*-0.0237692, -1.15945 + 1i*0.0303499,  ...
--1.42149 + 1i*0.046009, 0.484638 + 1i*-0.00949165, 0.872375 + 1i*0.0103854, -0.637363 + 1i*0.0255818, 0.769797 + 1i*-0.0578611,  ...
--1.06708 + 1i*-0.00202828, -1.21583 + 1i*0.0158837, -0.655009 + 1i*0.0159918, -0.911033 + 1i*-0.0395951, -1.04682 + 1i*0.0299625,  ...
--1.22683 + 1i*-0.0175511, 0.898046 + 1i*0.00228092, -0.715542 + 1i*0.0287189, 1.14645 + 1i*0.00282614, -0.906701 + 1i*-0.00356918,  ...
--1.37447 + 1i*-0.0106346, 1.19452 + 1i*-0.00673267, -0.711771 + 1i*-0.02554, 0.920718 + 1i*-0.0297893, -1.53245 + 1i*-0.00418572,  ...
--0.582633 + 1i*-0.0300569, -1.23911 + 1i*0.0227662, 0.754121 + 1i*0.0162918, 0.63742 + 1i*-0.0304476, 1.38472 + 1i*-0.0109834,  ...
-0.474176 + 1i*0.0404174, 1.24936 + 1i*-0.00691294, 0.966767 + 1i*0.0163544, 0.701749 + 1i*0.0392588, -1.07701 + 1i*0.0374198,  ...
-1.28935 + 1i*0.0175008, 0.51507 + 1i*0.0159568, -1.10127 + 1i*-0.0129328, 0.530353 + 1i*0.0123401, -0.855104 + 1i*0.0190313,  ...
--0.763038 + 1i*0.0191558, -1.44032 + 1i*-0.0309108, 1.04558 + 1i*0.0209353, 1.2952 + 1i*-0.0412378, -0.843705 + 1i*0.0279157,  ...
-0.9659 + 1i*0.0167943, -1.01634 + 1i*0.0132617, -1.25534 + 1i*0.00477497, -0.834696 + 1i*-0.0288209, -0.909007 + 1i*-0.00735273,  ...
-1.18161 + 1i*-0.013289, -1.0686 + 1i*-0.0422053, 1.28551 + 1i*0.0285403, -0.874577 + 1i*-6.71111e-05, -1.4892 + 1i*0.012058,  ...
--1.00072 + 1i*-0.0124655, 1.1369 + 1i*0.0164744, -1.15959 + 1i*-0.0360914, -0.85449 + 1i*-0.0217327, -1.29715 + 1i*0.00951538,  ...
--1.00298 + 1i*-0.019824, -1.15339 + 1i*-0.0356137, 0.414902 + 1i*-0.0461003, -1.58089 + 1i*-0.00118612, 0.53094 + 1i*-0.0347667,  ...
-1.00297 + 1i*-0.0273841, -0.961129 + 1i*-0.000755647, -0.989128 + 1i*0.0434457, 1.18789 + 1i*0.0157743, 0.320362 + 1i*0.0350031,  ...
-1.16094 + 1i*-0.0241698, 0.887372 + 1i*0.0245126, -0.0488441 + 1i*-0.0157313, 0.789738 + 1i*0.026487, 0.583187 + 1i*0.0137435,  ...
--1.07994 + 1i*9.24952e-05, -1.10677 + 1i*0.0162649, -0.869935 + 1i*-0.0182773, 0.949597 + 1i*0.0396645, -1.22466 + 1i*0.0230289,  ...
-1.52708 + 1i*0.00617203, -0.896735 + 1i*0.013697, -1.30417 + 1i*0.0517878, 0.325675 + 1i*0.0220514, 2.14775 + 1i*-0.0474515,  ...
--1.23289 + 1i*0.0339077, -1.11477 + 1i*-0.00965197, -0.59184 + 1i*-0.0211035, -1.21769 + 1i*0.0490859, -0.796217 + 1i*0.0243662,  ...
-0.941501 + 1i*-0.0304954, 0.611352 + 1i*-0.0098423, -0.649185 + 1i*0.0140119, 1.11903 + 1i*-0.00482011, 1.15489 + 1i*-0.0273748,  ...
-1.52545 + 1i*-0.0277751, -0.703129 + 1i*0.0201196, 0.307233 + 1i*0.0154259, 0.336329 + 1i*0.0136631, -0.568337 + 1i*0.00677006,  ...
-0.640948 + 1i*-0.0151107, -0.503382 + 1i*0.0175393, 1.76399 + 1i*-0.0105446, 0.985176 + 1i*-0.0298874, 0.506145 + 1i*0.0077833,  ...
-1.08183 + 1i*-0.0303851, -0.656784 + 1i*0.0139494, 1.48777 + 1i*-0.0179089, 1.10702 + 1i*-0.0517054, -0.619324 + 1i*0.0282269,  ...
--1.30374 + 1i*0.0556784, -1.0502 + 1i*8.6423e-05, 1.02992 + 1i*-0.016641, -0.551208 + 1i*0.0519531, -1.02743 + 1i*0.0390969,  ...
-0.641087 + 1i*0.0118701, -0.305536 + 1i*-0.0188676, 1.35515 + 1i*-0.0581814, -1.4776 + 1i*0.0572286, 1.45977 + 1i*-0.0113826,  ...
-0.770879 + 1i*-0.00422174, 0.637096 + 1i*0.0265345, -1.3703 + 1i*0.00806652, -0.526102 + 1i*-0.00653444, 1.0068 + 1i*-0.0101058,  ...
-1.53547 + 1i*-0.0383125, 1.0934 + 1i*-0.0033342, -0.906709 + 1i*0.0469187, -0.669546 + 1i*0.00922617, 1.0823 + 1i*-0.065388,  ...
--1.75351 + 1i*-8.60933e-05, -0.365442 + 1i*0.0023126, 0.889146 + 1i*-0.0765974, -1.08125 + 1i*0.045148, 1.0499 + 1i*0.021974,  ...
--1.87844 + 1i*0.0156565];
-CH0_316 = [ ...
--0.949959 + 1i*0.0146334, -1.26908 + 1i*-0.0121809, -1.59097 + 1i*0.0327776, 1.80171 + 1i*-0.0342486, 0.776483 + 1i*0.0385648,  ...
-1.72507 + 1i*0.0594565, 1.73305 + 1i*-0.0197401, 0.282893 + 1i*0.0426558, -1.08409 + 1i*0.0263266, -0.510872 + 1i*-0.00287209,  ...
-0.533443 + 1i*-0.0253731, -1.02398 + 1i*0.0159604, 1.62748 + 1i*-0.0139923, 1.10833 + 1i*0.0263015, -1.52966 + 1i*0.010447,  ...
--0.832406 + 1i*-0.019866, -0.943543 + 1i*-0.0309985, -0.913951 + 1i*0.0574118, 1.2719 + 1i*-0.0481155, 0.634014 + 1i*0.00519221,  ...
--0.728883 + 1i*0.00080236, -0.587149 + 1i*0.00767508, -1.55684 + 1i*0.0207598, -0.605317 + 1i*-0.0294604, 1.12196 + 1i*-0.00052315,  ...
--1.07061 + 1i*0.0471603, -0.783245 + 1i*0.0162889, 1.20126 + 1i*-0.0541833, 0.515854 + 1i*-0.0364962, -1.1316 + 1i*0.0054417,  ...
--1.41756 + 1i*0.0302597, 0.469799 + 1i*-0.0366136, 0.877549 + 1i*0.00201914, -0.585261 + 1i*0.0315188, 0.809333 + 1i*-0.0823767,  ...
--1.0448 + 1i*-0.0366569, -1.20094 + 1i*-0.0186932, -0.653044 + 1i*-0.0195773, -0.929121 + 1i*-0.0678557, -1.08087 + 1i*0.00684561,  ...
--1.27117 + 1i*-0.0402712, 0.859803 + 1i*-0.0259463, -0.707884 + 1i*0.0232266, 1.14871 + 1i*-0.0222827, -0.922529 + 1i*-0.00115398,  ...
--1.38717 + 1i*-0.0249119, 1.16994 + 1i*-0.0228018, -0.722842 + 1i*-0.0149526, 0.935059 + 1i*-0.0679072, -1.54172 + 1i*-0.0339797,  ...
--0.633806 + 1i*-0.0696404, -1.30852 + 1i*0.00499159, 0.69298 + 1i*-0.0167591, 0.587033 + 1i*-0.0228991, 1.37473 + 1i*-0.0162926,  ...
-0.496254 + 1i*0.0328606, 1.24443 + 1i*-0.0227289, 0.991412 + 1i*0.016478, 0.730155 + 1i*0.0335368, -1.03626 + 1i*0.0570648,  ...
-1.32174 + 1i*-0.00245745, 0.569727 + 1i*0.0112773, -1.06761 + 1i*-0.00992501, 0.548053 + 1i*-0.00755703, -0.819384 + 1i*0.0221795,  ...
--0.763516 + 1i*0.00407588, -1.48684 + 1i*-0.0243614, 1.04177 + 1i*0.0151178, 1.29393 + 1i*-0.0378658, -0.812224 + 1i*0.0341438,  ...
-0.974809 + 1i*0.00305387, -0.983147 + 1i*0.0359813, -1.20567 + 1i*-0.0188884, -0.817441 + 1i*-0.0746999, -0.928829 + 1i*-0.0447399,  ...
-1.17625 + 1i*-0.021232, -1.06092 + 1i*-0.0428195, 1.35267 + 1i*-0.0101701, -0.806928 + 1i*0.000947423, -1.45463 + 1i*-0.014438,  ...
--1.02167 + 1i*-0.0310953, 1.13924 + 1i*-0.0146484, -1.14629 + 1i*-0.0272407, -0.840113 + 1i*-0.0314609, -1.29876 + 1i*-0.0189079,  ...
--1.06099 + 1i*-0.0309961, -1.19931 + 1i*-0.0428081, 0.370187 + 1i*-0.0670696, -1.6403 + 1i*-0.00139995, 0.473052 + 1i*-0.0593086,  ...
-0.964881 + 1i*-0.0389879, -0.98531 + 1i*0.0117135, -1.01964 + 1i*0.0361401, 1.12008 + 1i*0.00118703, 0.274373 + 1i*0.0551246,  ...
-1.16759 + 1i*-0.0264512, 0.915327 + 1i*0.0359538, -0.0364135 + 1i*-0.00150012, 0.844947 + 1i*0.0263006, 0.623411 + 1i*-0.00404218,  ...
--1.06458 + 1i*0.0116019, -1.10771 + 1i*0.00297695, -0.865436 + 1i*0.0032858, 0.971881 + 1i*0.0238726, -1.19107 + 1i*0.0398406,  ...
-1.54123 + 1i*-0.0155196, -0.87013 + 1i*0.016671, -1.31627 + 1i*0.052177, 0.285534 + 1i*0.0230669, 2.19091 + 1i*-0.0322637,  ...
--1.14205 + 1i*0.059762, -1.06327 + 1i*-0.0295738, -0.601412 + 1i*-0.0375704, -1.22438 + 1i*0.0489586, -0.810051 + 1i*0.00836568,  ...
-0.891085 + 1i*-0.0475139, 0.572137 + 1i*-0.013163, -0.707662 + 1i*0.0310277, 1.06974 + 1i*-0.0015621, 1.14351 + 1i*-0.012706,  ...
-1.54573 + 1i*-0.0118985, -0.658233 + 1i*0.0278306, 0.329454 + 1i*0.0105652, 0.32261 + 1i*-0.00152318, -0.58537 + 1i*0.00322534,  ...
-0.600194 + 1i*-0.0138228, -0.537911 + 1i*0.0414098, 1.73664 + 1i*0.00284749, 0.983042 + 1i*-0.0127265, 0.541703 + 1i*0.0238153,  ...
-1.05874 + 1i*-0.0345631, -0.664053 + 1i*0.0388985, 1.49936 + 1i*-0.0111015, 1.14094 + 1i*-0.0383763, -0.546034 + 1i*0.0273196,  ...
--1.27644 + 1i*0.0514873, -1.09078 + 1i*0.0109041, 1.04018 + 1i*0.00254847, -0.492407 + 1i*0.0608993, -1.00999 + 1i*0.0443343,  ...
-0.62047 + 1i*0.0126096, -0.301095 + 1i*0.0100247, 1.36368 + 1i*-0.0674863, -1.46167 + 1i*0.0674261, 1.41126 + 1i*-0.00830789,  ...
-0.779636 + 1i*0.0115113, 0.689392 + 1i*0.0206423, -1.36517 + 1i*0.0202325, -0.563017 + 1i*0.00222269, 0.982522 + 1i*0.00177063,  ...
-1.51755 + 1i*-0.0118282, 1.12189 + 1i*-0.0131207, -0.876102 + 1i*0.0574289, -0.644787 + 1i*0.00784481, 1.07642 + 1i*-0.0778683,  ...
--1.7729 + 1i*0.0123692, -0.394932 + 1i*-0.000987522, 0.832375 + 1i*-0.068941, -1.01518 + 1i*0.0565401, 1.07996 + 1i*-0.0132177,  ...
--1.85327 + 1i*0.0755119];
-figure;plot(real(CH1_316), imag(CH1_316), '.', 'DisplayName', 'CH1_316'); hold on;
-plot(real(CH0_316), imag(CH0_316), '.', 'DisplayName', 'CH0_316'); hold on;
+
+CH1_78137 = [ ...
+-1.86072 + 1i*-0.00584567, -0.826687 + 1i*-0.0305141, -0.640711 + 1i*-0.0268969, 1.11804 + 1i*-0.0110173, 0.994918 + 1i*-0.0122356,  ...
+1.40869 + 1i*0.0670789, 0.853296 + 1i*-0.00521659, 0.60059 + 1i*-0.0143829, -1.21163 + 1i*-0.0464557, -0.809966 + 1i*-0.0545719,  ...
+0.998579 + 1i*-0.00765746, -0.853851 + 1i*-0.0407972, 0.658659 + 1i*-0.00304067, 1.12901 + 1i*0.0109111, -0.988039 + 1i*-0.0366213,  ...
+-1.24242 + 1i*0.00166871, -1.06881 + 1i*-0.0446149, -1.1756 + 1i*-0.0135748, 1.5567 + 1i*0.0193359, 0.467158 + 1i*0.0407078,  ...
+-1.21668 + 1i*-0.0741164, -0.835737 + 1i*0.00756287, -1.00035 + 1i*-0.0181086, -0.58785 + 1i*-0.047259, 1.82354 + 1i*0.057398,  ...
+-0.982934 + 1i*0.00686912, -1.0981 + 1i*-0.0569391, 0.730714 + 1i*0.0060247, 1.02066 + 1i*0.0116393, -1.18415 + 1i*-0.0245102,  ...
+-1.03236 + 1i*-0.00789822, 1.01885 + 1i*-0.0140689, 0.26006 + 1i*-0.00102028, -1.09826 + 1i*-0.0438062, 0.303328 + 1i*0.00774688,  ...
+-0.513715 + 1i*-0.0301629, -1.15498 + 1i*0.00920519, -0.539499 + 1i*-0.020601, -1.30637 + 1i*-0.00792193, -1.10581 + 1i*0.0175541,  ...
+-0.412113 + 1i*-0.0223981, 0.373503 + 1i*0.0356385, -0.263899 + 1i*0.00820085, 1.37261 + 1i*0.0339725, -1.13572 + 1i*-0.0460981,  ...
+-0.497389 + 1i*-0.0197491, 0.766329 + 1i*0.0199375, -1.30046 + 1i*-0.0174451, -0.00609716 + 1i*-0.0116668, -1.22795 + 1i*-0.0201539,  ...
+-0.789195 + 1i*-0.0240359, -1.04508 + 1i*0.0208743, 0.686388 + 1i*-0.0062219, -0.0651474 + 1i*0.0216797, 0.991547 + 1i*-0.01927,  ...
+1.37685 + 1i*-0.0286535, 0.98041 + 1i*0.0153392, 0.70475 + 1i*0.00168409, 0.772217 + 1i*-0.0264564, -0.508961 + 1i*-0.0138506,  ...
+0.812318 + 1i*0.0190564, 0.852994 + 1i*-0.022135, -0.990215 + 1i*-0.0186275, 0.484984 + 1i*0.0120078, -0.621338 + 1i*0.0371222,  ...
+-0.459077 + 1i*0.0296252, -0.952888 + 1i*0.0216179, 0.798198 + 1i*0.0145405, 0.604533 + 1i*-0.0304306, -0.178512 + 1i*-0.00498257,  ...
+0.778417 + 1i*0.000370865, -0.401547 + 1i*0.0321884, -0.185215 + 1i*-0.0260703, -1.31724 + 1i*0.0379084, -0.791631 + 1i*-0.00682298,  ...
+1.26328 + 1i*-0.015751, -0.703985 + 1i*0.0412048, 0.521795 + 1i*0.0168831, -0.961344 + 1i*-0.0229457, -0.610249 + 1i*-0.00928004,  ...
+-0.398896 + 1i*0.0370139, 1.3296 + 1i*-0.0361146, -2.21844 + 1i*-0.0258117, -1.38926 + 1i*-0.0411571, -1.07704 + 1i*-0.0080785,  ...
+-0.553749 + 1i*0.0565985, -0.822011 + 1i*0.0389111, 1.30751 + 1i*-0.0695425, -1.53361 + 1i*0.00988141, 0.816071 + 1i*0.0585575,  ...
+1.62137 + 1i*0.0494705, -1.10032 + 1i*-0.0273158, -0.871764 + 1i*-0.0209482, 0.871774 + 1i*0.0348752, 1.48454 + 1i*0.0568353,  ...
+1.55309 + 1i*0.0585433, 0.764685 + 1i*-0.0232964, -0.901289 + 1i*-0.00939368, 0.324414 + 1i*0.00834895, 0.866804 + 1i*0.0125859,  ...
+-1.03033 + 1i*0.00545091, -1.43708 + 1i*0.0329025, -0.17412 + 1i*-0.0244694, 0.510244 + 1i*0.0187119, -1.00402 + 1i*0.0507371,  ...
+0.875438 + 1i*-0.0173439, -1.37443 + 1i*0.0473369, -0.71422 + 1i*0.00349972, 0.183312 + 1i*0.00153069, 1.23836 + 1i*-0.0588431,  ...
+-0.859392 + 1i*0.012906, -0.902386 + 1i*0.065662, -0.939688 + 1i*0.0473197, -1.19662 + 1i*0.0705559, -0.547462 + 1i*0.0175756,  ...
+0.812131 + 1i*-0.00502251, 0.801699 + 1i*-0.0628822, -0.753568 + 1i*0.0130437, 0.594627 + 1i*-0.0187377, 0.995466 + 1i*-0.0616554,  ...
+-0.235478 + 1i*-0.00892583, -1.05303 + 1i*0.0301702, 1.12954 + 1i*-0.0838331, 0.372143 + 1i*-0.0371954, -1.42506 + 1i*0.0749017,  ...
+0.202753 + 1i*-0.0226834, -1.06375 + 1i*0.0756769, 1.18712 + 1i*-0.0516618, 0.779113 + 1i*-0.0163356, 0.608841 + 1i*-0.0339736,  ...
+0.382403 + 1i*0.0101062, -0.702013 + 1i*0.00729623, 0.551533 + 1i*-0.0182282, 1.40038 + 1i*-0.0296768, -0.781977 + 1i*0.00765799,  ...
+-0.822179 + 1i*0.0490914, -1.27096 + 1i*0.0513376, 0.606804 + 1i*-0.00552587, -1.58984 + 1i*0.109207, -0.723712 + 1i*0.0746883,  ...
+0.623735 + 1i*-0.00384917, -1.1215 + 1i*0.0679623, 0.983981 + 1i*-0.0240111, -0.00821058 + 1i*-0.00610271, 0.878445 + 1i*-0.0102463,  ...
+0.645243 + 1i*-0.0226899, 1.75722 + 1i*-0.081619, -0.869871 + 1i*0.0445953, 0.00901958 + 1i*0.0313705, 0.923941 + 1i*-0.0457268,  ...
+0.659306 + 1i*-0.0353023, 0.949394 + 1i*0.00354656, -1.61112 + 1i*0.0502362, -0.343608 + 1i*-0.0399955, 1.18801 + 1i*-0.00355392,  ...
+-0.566802 + 1i*0.0284175, -1.50614 + 1i*0.0461222, 2.01043 + 1i*-0.0060688, -1.08044 + 1i*0.00826435, 0.958617 + 1i*-0.0438307,  ...
+-0.601853 + 1i*0.0369219, 0.853598 + 1i*0.0280739, -1.53872 + 1i*0.0475928, 0.694857 + 1i*0.0115883, 1.10992 + 1i*-0.0348434,  ...
+0.828254 + 1i*-0.0236448, 0.813657 + 1i*0.0160166, 1.41121 + 1i*-0.0382505, 1.57452 + 1i*0.00664026, 0.829553 + 1i*0.0300638,  ...
+0.892074 + 1i*-0.0143911, 1.18056 + 1i*-0.0210004, -1.52257 + 1i*-0.0394826, 1.34277 + 1i*-0.0257786, 1.27037 + 1i*-0.0172012,  ...
+1.06757 + 1i*0.0198125, 1.1435 + 1i*0.0301384, -0.818022 + 1i*0.0279785];
+CH0_78137 = [ ...
+-1.84557 + 1i*-0.0262581, -0.828822 + 1i*-0.0415813, -0.665134 + 1i*-0.0293972, 1.09111 + 1i*0.00553984, 0.97714 + 1i*0.0236474,  ...
+1.43724 + 1i*0.0883251, 0.867476 + 1i*0.00794877, 0.614972 + 1i*-0.00269939, -1.20326 + 1i*-0.0446918, -0.806642 + 1i*-0.0547429,  ...
+0.994648 + 1i*0.0148116, -0.845243 + 1i*-0.0121052, 0.671156 + 1i*-0.00398875, 1.14237 + 1i*0.0116557, -0.977285 + 1i*-0.0397337,  ...
+-1.23926 + 1i*-0.0151688, -1.07489 + 1i*-0.0609462, -1.17353 + 1i*0.010178, 1.57312 + 1i*0.0190117, 0.476244 + 1i*0.0335659,  ...
+-1.21139 + 1i*-0.0660508, -0.852149 + 1i*-0.022252, -1.02297 + 1i*-0.0283716, -0.600801 + 1i*-0.0298379, 1.83291 + 1i*0.056881,  ...
+-0.975737 + 1i*0.023143, -1.09328 + 1i*-0.0536753, 0.75008 + 1i*-0.0192106, 1.03128 + 1i*0.0080615, -1.17661 + 1i*-0.0185657,  ...
+-1.03185 + 1i*-0.0241792, 1.01589 + 1i*-0.0254495, 0.259304 + 1i*0.00144139, -1.08946 + 1i*-0.0344573, 0.309724 + 1i*-0.0257685,  ...
+-0.518057 + 1i*-0.0391852, -1.14156 + 1i*-0.00486392, -0.547664 + 1i*-0.0370254, -1.32848 + 1i*-0.014137, -1.13091 + 1i*-0.000113999,  ...
+-0.437757 + 1i*-0.0323996, 0.357572 + 1i*0.0251349, -0.275287 + 1i*0.0122645, 1.36738 + 1i*0.0110758, -1.1469 + 1i*-0.0357583,  ...
+-0.508593 + 1i*-0.0361283, 0.758068 + 1i*-0.0029754, -1.30235 + 1i*-0.0127027, -0.0147118 + 1i*-0.0345916, -1.2414 + 1i*-0.0229443,  ...
+-0.811619 + 1i*-0.0348223, -1.08322 + 1i*0.00551398, 0.640115 + 1i*-0.016553, -0.103468 + 1i*0.0314183, 0.971168 + 1i*-0.0111217,  ...
+1.36279 + 1i*-0.0261801, 0.99111 + 1i*0.0238547, 0.723039 + 1i*-0.00568929, 0.784762 + 1i*-0.0396601, -0.497876 + 1i*-0.0194832,  ...
+0.827061 + 1i*-0.0166055, 0.858732 + 1i*-0.0331502, -0.980015 + 1i*-0.0076133, 0.507627 + 1i*-0.0185154, -0.604662 + 1i*0.0181691,  ...
+-0.44622 + 1i*0.0079883, -0.964049 + 1i*0.0174329, 0.799442 + 1i*-0.00671565, 0.601885 + 1i*-0.0302244, -0.168441 + 1i*0.0119266,  ...
+0.778189 + 1i*-0.0248664, -0.395172 + 1i*0.0317592, -0.173409 + 1i*-0.0381014, -1.3015 + 1i*0.0599354, -0.769013 + 1i*-0.0163683,  ...
+1.26326 + 1i*-0.0470537, -0.692006 + 1i*0.0422512, 0.534266 + 1i*-0.0178739, -0.975302 + 1i*-0.0152307, -0.589176 + 1i*-0.0167835,  ...
+-0.36131 + 1i*0.0292903, 1.36061 + 1i*-0.0593945, -2.21737 + 1i*0.000710092, -1.37642 + 1i*-0.0421908, -1.09266 + 1i*-0.0316903,  ...
+-0.544927 + 1i*0.0316581, -0.845191 + 1i*0.0465517, 1.27415 + 1i*-0.0844754, -1.53296 + 1i*0.0268158, 0.830688 + 1i*0.037877,  ...
+1.63346 + 1i*0.028355, -1.11354 + 1i*-0.0175194, -0.90593 + 1i*-0.0252349, 0.864612 + 1i*0.0144461, 1.49797 + 1i*0.029767,  ...
+1.57916 + 1i*0.0393498, 0.79558 + 1i*-0.00909603, -0.893884 + 1i*-0.00981295, 0.335904 + 1i*-0.0178264, 0.885141 + 1i*-0.00659383,  ...
+-1.01651 + 1i*0.00794102, -1.43173 + 1i*0.0230647, -0.180622 + 1i*-0.0335794, 0.516837 + 1i*-0.0064326, -0.999784 + 1i*0.0456329,  ...
+0.863486 + 1i*-0.0454872, -1.39418 + 1i*0.0492975, -0.73318 + 1i*-0.00288658, 0.183142 + 1i*-0.00324032, 1.23464 + 1i*-0.0587974,  ...
+-0.869006 + 1i*0.0333515, -0.899424 + 1i*0.0416039, -0.952851 + 1i*0.0475769, -1.20916 + 1i*0.058211, -0.573779 + 1i*0.0108261,  ...
+0.818733 + 1i*-0.0204223, 0.78024 + 1i*-0.044579, -0.774026 + 1i*0.0255371, 0.600487 + 1i*-0.0290252, 1.00838 + 1i*-0.0511799,  ...
+-0.22853 + 1i*-0.00438537, -1.0454 + 1i*0.0313752, 1.13653 + 1i*-0.0951731, 0.377229 + 1i*-0.0228119, -1.41857 + 1i*0.0783927,  ...
+0.201213 + 1i*-0.0392155, -1.06517 + 1i*0.0689218, 1.18754 + 1i*-0.0541349, 0.797942 + 1i*-0.00145449, 0.633601 + 1i*-0.0295217,  ...
+0.403588 + 1i*0.0114067, -0.684349 + 1i*0.00582771, 0.566372 + 1i*-0.0206234, 1.43623 + 1i*-0.0395892, -0.768305 + 1i*0.00347475,  ...
+-0.802489 + 1i*0.0322819, -1.27236 + 1i*0.0276632, 0.611336 + 1i*-0.0170438, -1.58509 + 1i*0.0847276, -0.728947 + 1i*0.0442057,  ...
+0.611753 + 1i*0.00230297, -1.14766 + 1i*0.0705012, 0.969109 + 1i*-0.0137763, -0.0210723 + 1i*0.0139812, 0.876481 + 1i*0.0134352,  ...
+0.6625 + 1i*0.00289316, 1.76652 + 1i*-0.0553824, -0.873008 + 1i*0.0295754, -0.000225924 + 1i*0.0210589, 0.923532 + 1i*-0.0209607,  ...
+0.661518 + 1i*-0.0120269, 0.946208 + 1i*0.0132276, -1.60859 + 1i*0.0519772, -0.355562 + 1i*-0.0323213, 1.20553 + 1i*0.0129497,  ...
+-0.568187 + 1i*0.0459134, -1.49833 + 1i*0.0201515, 2.01271 + 1i*-0.00688585, -1.08698 + 1i*0.0277022, 0.963094 + 1i*-0.0312599,  ...
+-0.61692 + 1i*0.0348385, 0.835494 + 1i*0.0176586, -1.57217 + 1i*0.0534026, 0.672603 + 1i*0.0236988, 1.07267 + 1i*-0.00138707,  ...
+0.811606 + 1i*0.0191371, 0.810691 + 1i*0.0343327, 1.39605 + 1i*-0.00887914, 1.57251 + 1i*0.0186706, 0.837558 + 1i*0.0511383,  ...
+0.905858 + 1i*0.00981998, 1.17894 + 1i*0.00567688, -1.52397 + 1i*-0.0165719, 1.34296 + 1i*-0.0150949, 1.27155 + 1i*0.00687456,  ...
+1.10393 + 1i*0.022676, 1.17705 + 1i*0.0251355, -0.768084 + 1i*0.0361652];
+figure;
+plot(real(CH1_78137), imag(CH1_78137), '.', 'DisplayName', 'CH1_78137'); hold on;
+plot(real(CH0_78137), imag(CH0_78137), '.', 'DisplayName', 'CH0_78137'); hold on;
 title('Received Data'); xlabel('Real'); ylabel('Imag'); axis equal; legend; grid on;
 
